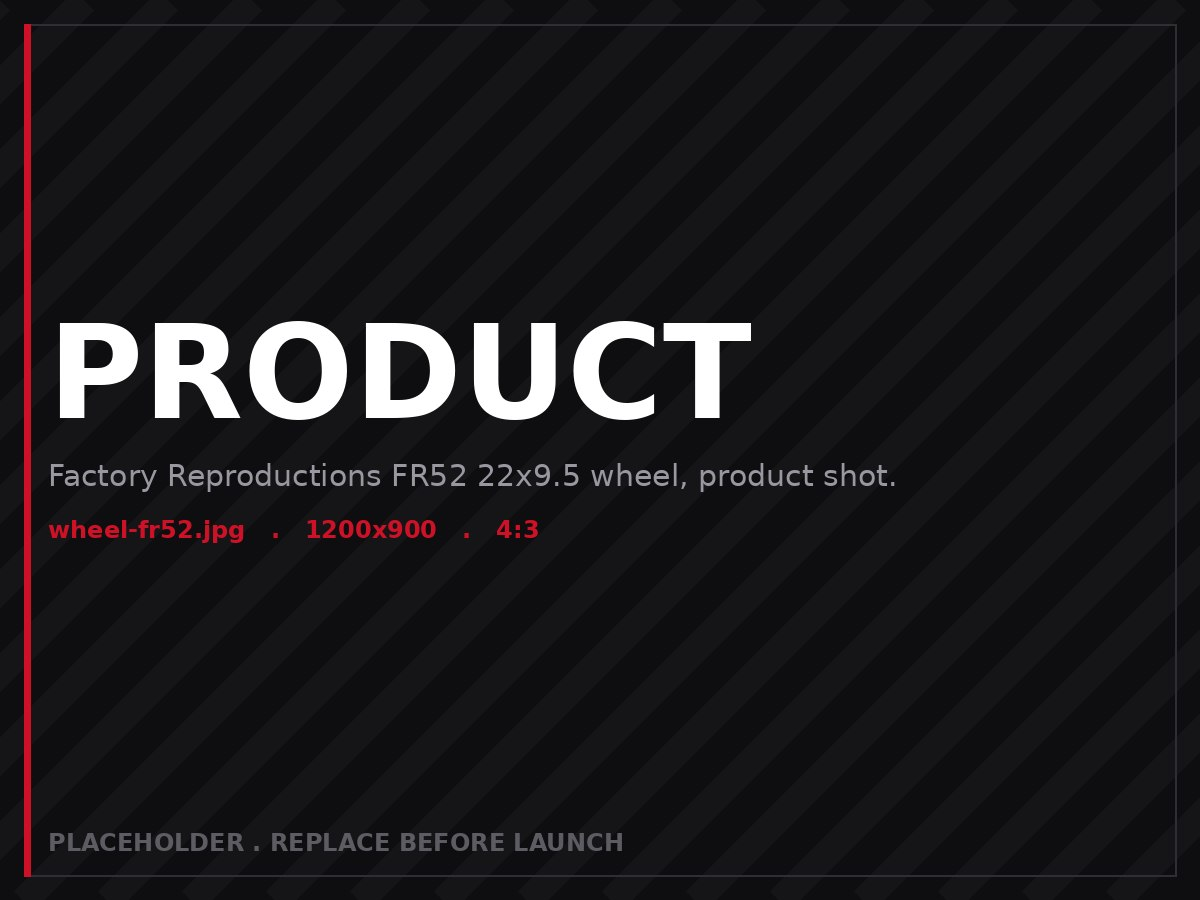
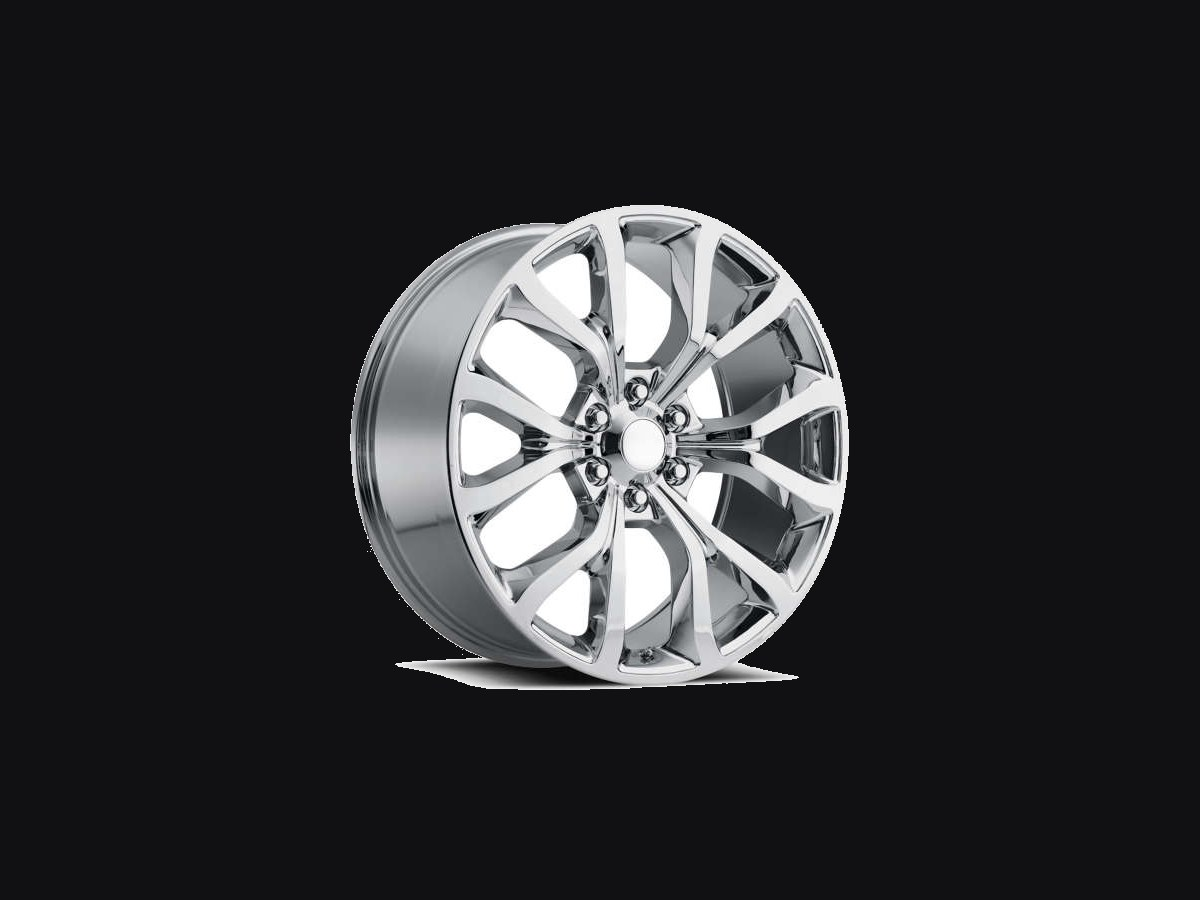
Use real Custom Offsets product photos on 10 product cards
Pulls the actual product imagery from images.customwheeloffset.com for the
three wheels, three tires, exhaust, intake, headlights and taillights.

The CO source shots are white-background, so each was composited onto the
card's dark ground (#111113) to match the existing dark treatment:
 - wheels and store products float on white with a margin, so they were
   padded to 4:3 and the white surround flood-filled dark
 - tire shots are deliberate full-bleed crops with a white corner wedge,
   so the wedge was filled in place and the crop kept full-bleed

Filenames are unchanged, so no src attributes needed editing.

Seven cards remain placeholders (no matching CO product page found) and are
listed in the comment above the parts grid.

Changed region(s): [[0.0, 0.0311, 0.74, 0.9644]]

diff --git a/index.html b/index.html
@@ -347,9 +347,13 @@
 </section>
 
 <!-- ===================== PARTS ===================== -->
-<!-- PRODUCT IMAGES: every .pcard__img <img> below points at a local placeholder in assets/.
-     To use the live Custom Offsets product photos, replace each src with the product image URL
-     from that item's product page. Nothing else needs to change. -->
+<!-- PRODUCT IMAGES: the wheels, tires, exhaust, intake, and lighting cards now use the real
+     Custom Offsets product photos (pulled from images.customwheeloffset.com, padded to 4:3 and
+     composited onto the card's dark ground so they sit on the near-black page).
+     STILL PLACEHOLDERS, no CO product page matched them: part-suspension.jpg (Rough Country
+     Vertex 2.5 RR 2in), part-tuner.jpg (Holley Flashcal - sold off-site), part-seats-front.jpg
+     and part-seats-rear.jpg (Coverking Skanda), and the three pkg-*.jpg package cards (the
+     package pages carry no combined setup photo). Drop matching files in at the same names. -->
 <section class="sec parts" id="parts">
   <div class="wrap wrap--wide">
     <div class="rv">
